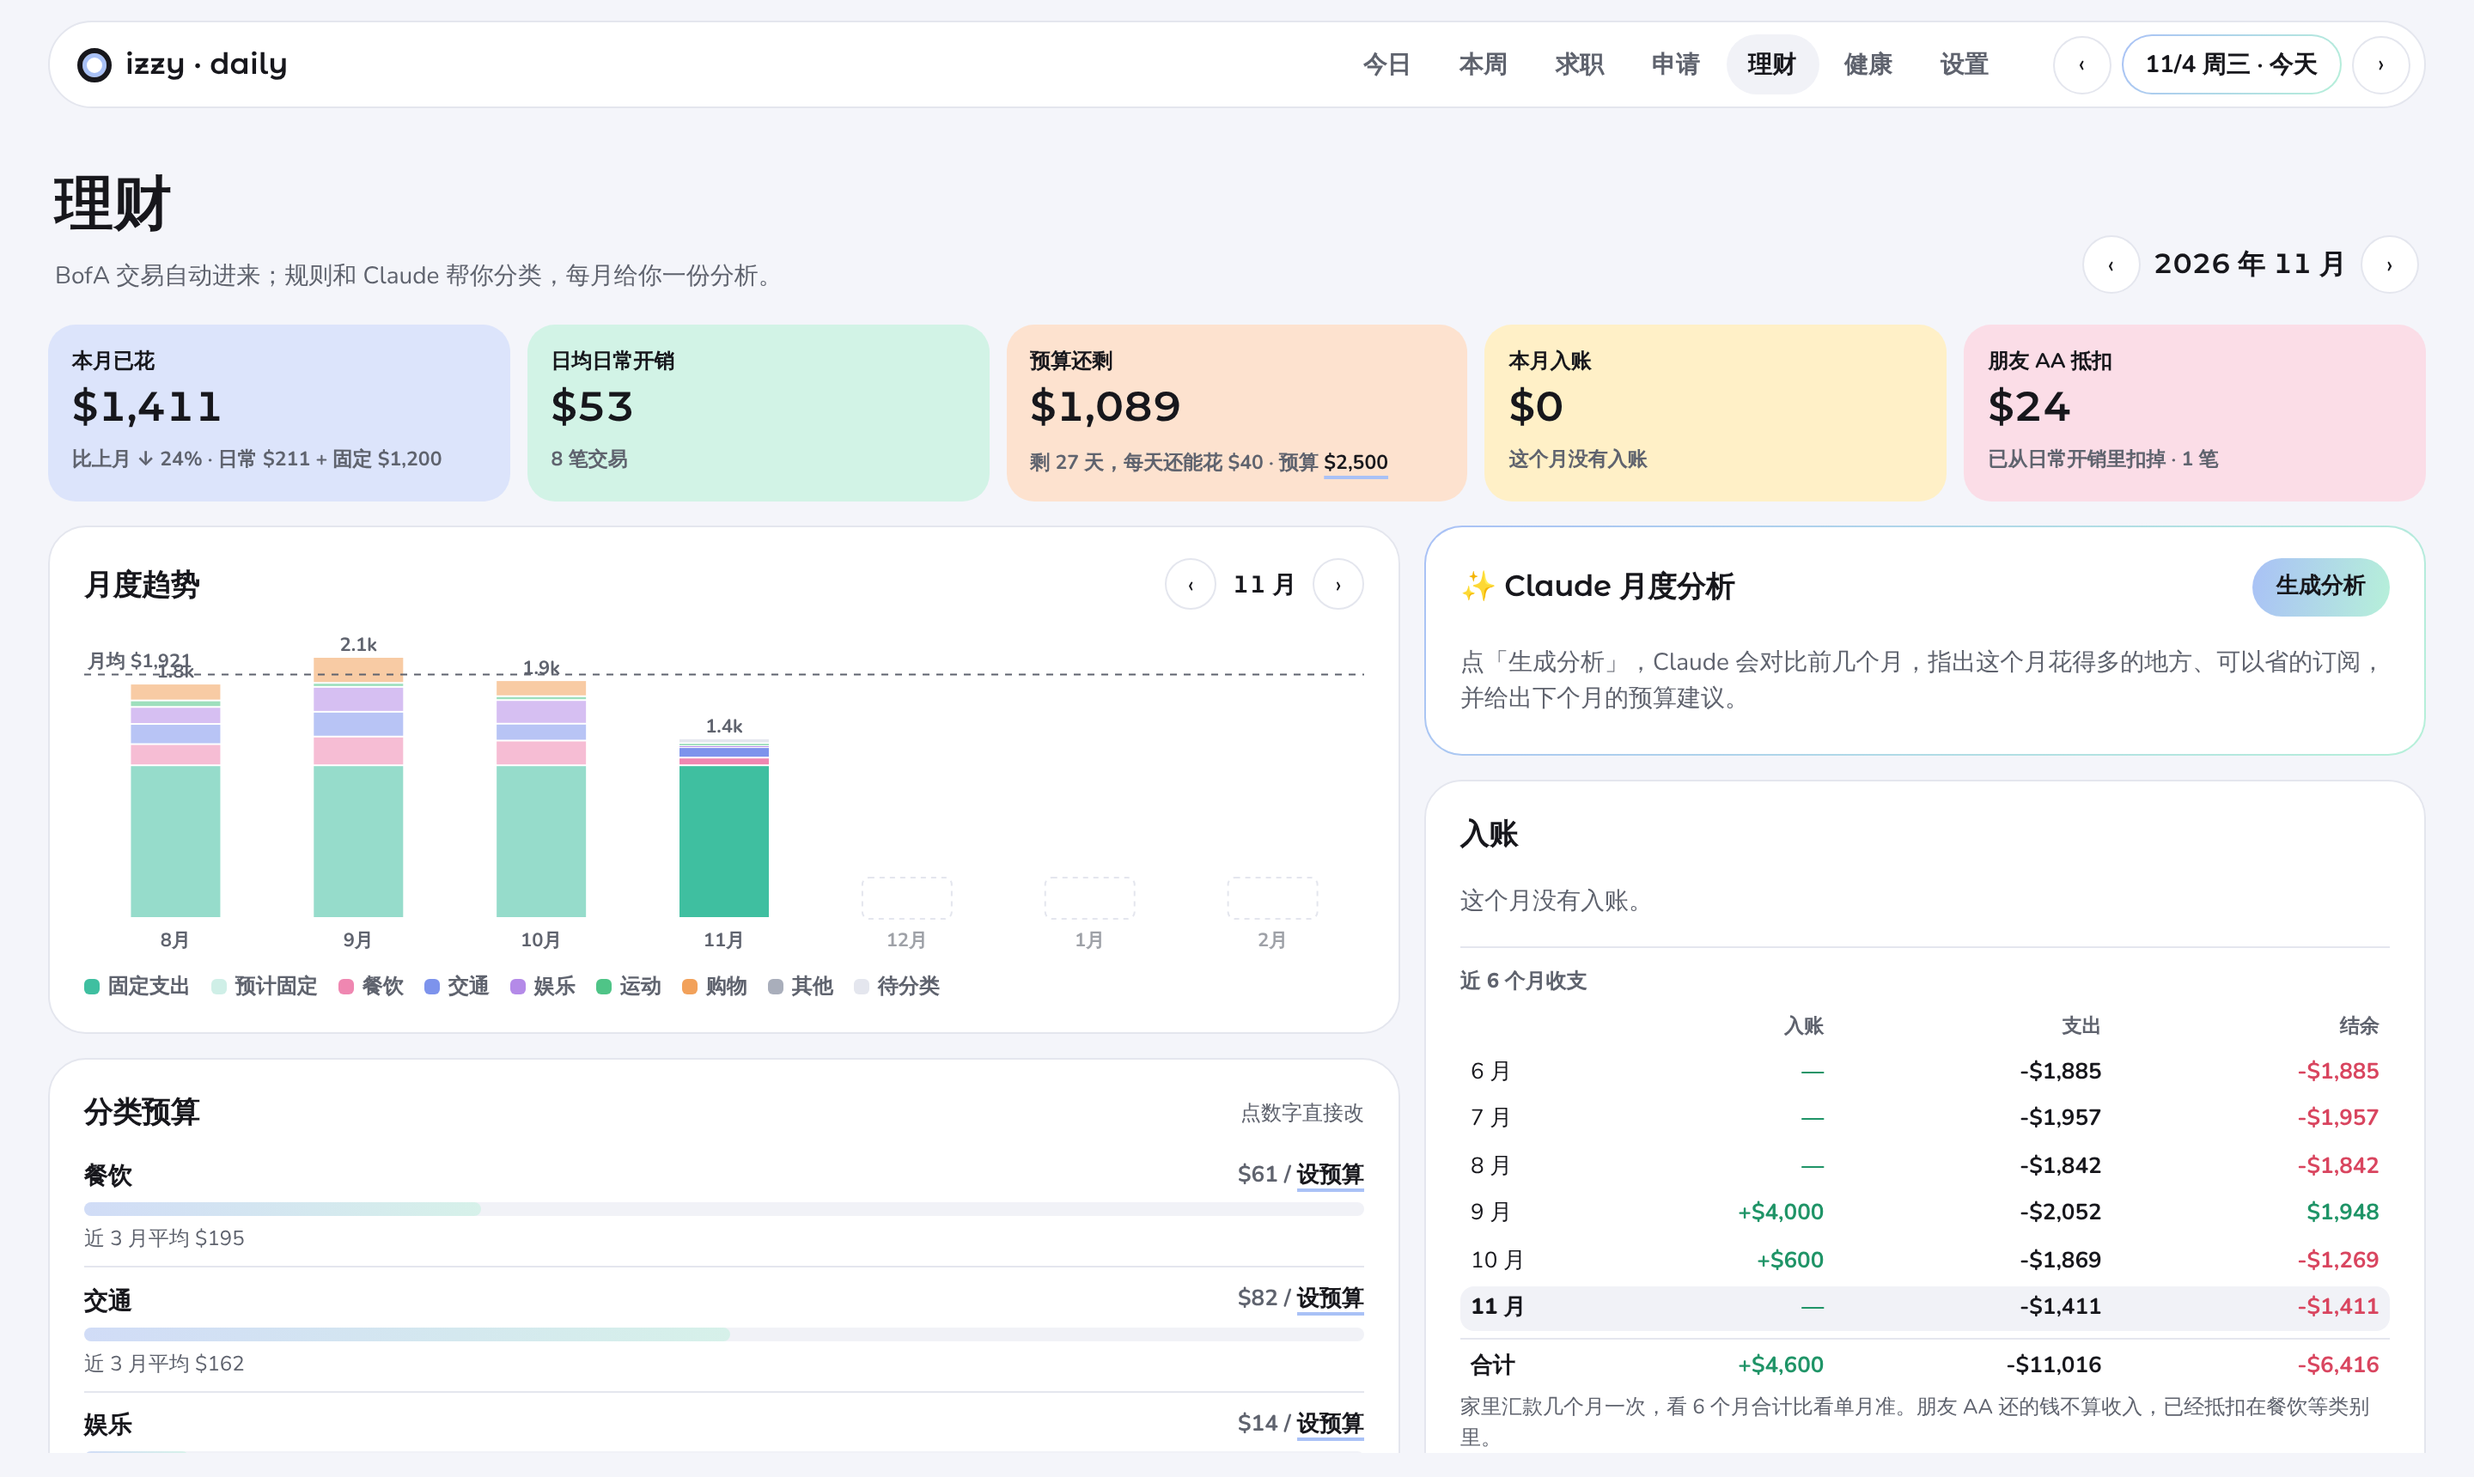
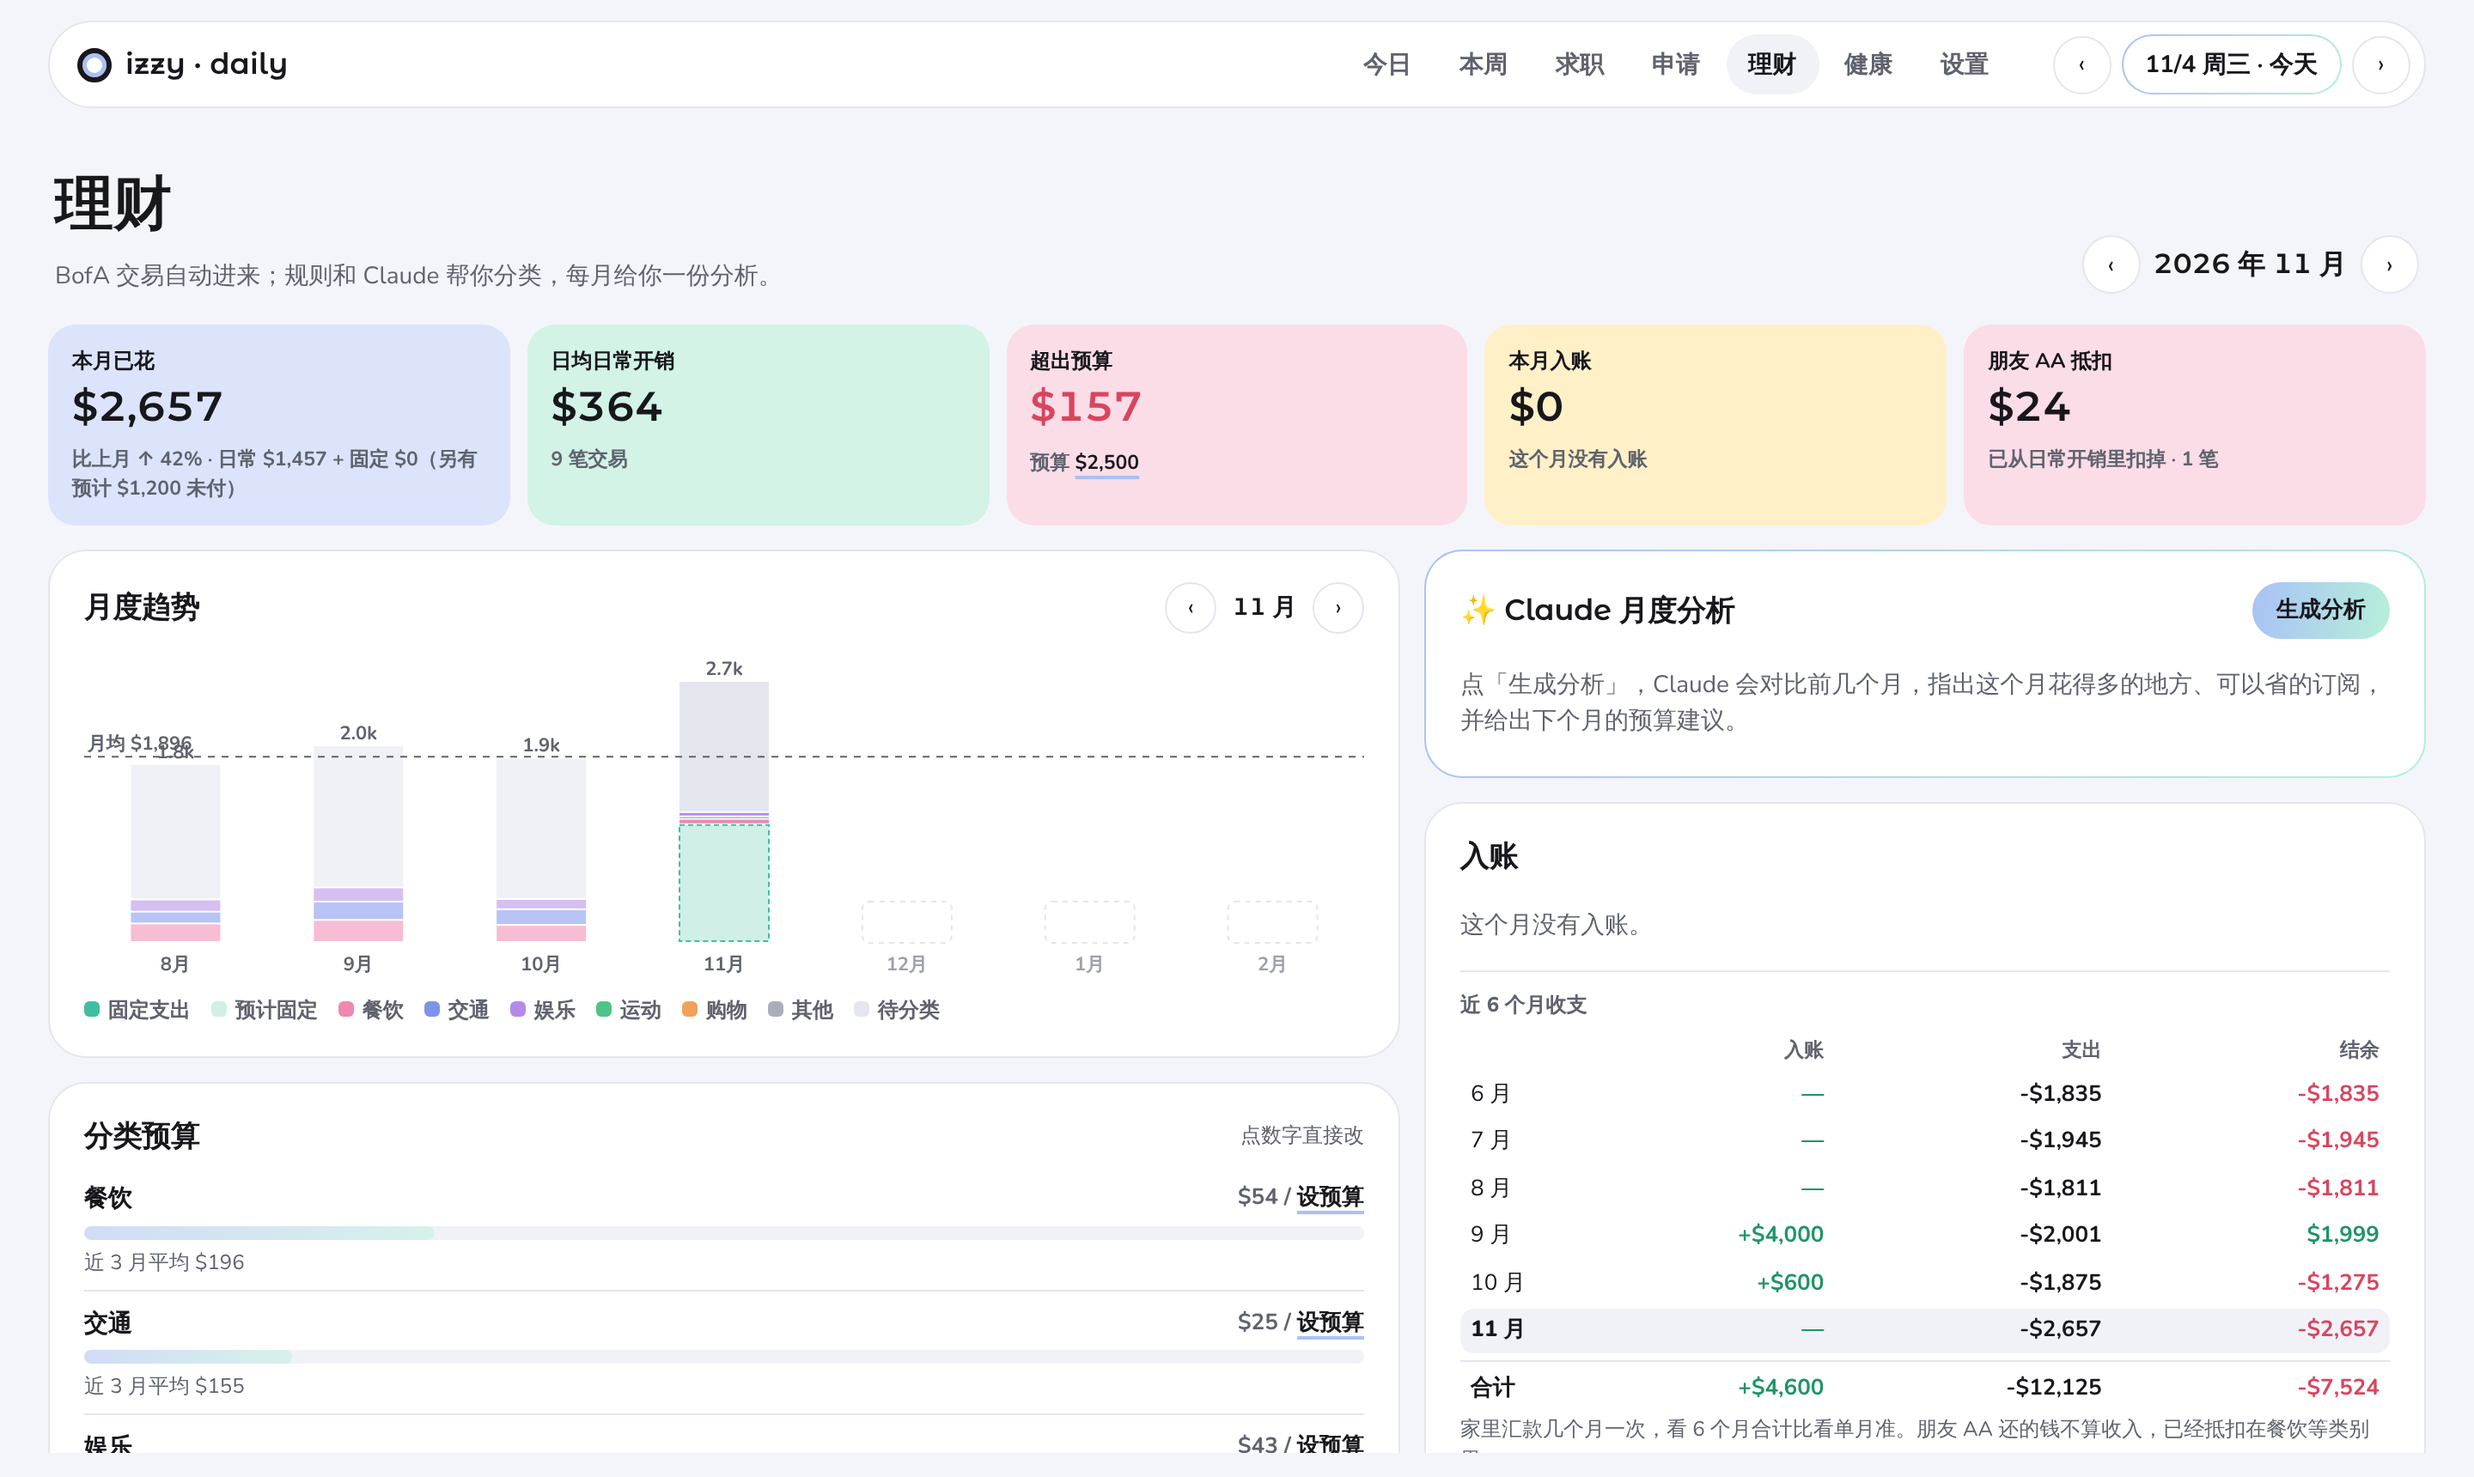
README: day grid editing, new spending categories; drop Week page
Claude-Session: https://claude.ai/code/session_01LdqtABcSLYV7nAgoBem4sL

diff --git a/README.md b/README.md
@@ -69,12 +69,11 @@ Supported action types:
 
 ## Everything else
 
-The hub feeds a dashboard with seven pages:
+The hub feeds a dashboard with six pages:
 
 | Page | What's there |
 |---|---|
-| **Today** | Now card with progress bar, timeline (Google Calendar + weekly template), to-dos ranked by urgency, daily check-ins |
-| **Week** | Habit grid, sleep, weekly review drafted by Claude |
+| **Today** | Now card with progress bar, an editable day grid (Google Calendar + weekly template), to-dos ranked by urgency, daily check-ins |
 | **Jobs** | Application pipeline synced with my job-hunting agent's board, response-odds score |
 | **Applications** | Grad school tracker and a copy-paste kit for job forms |
 | **Finance** | Spending, income and budgets (see below) |
@@ -83,7 +82,13 @@ The hub feeds a dashboard with seven pages:
 
 ![Finance page](docs/finance.png)
 
+### Editing the day like Google Calendar
+
+The timeline is a day grid. Click empty space (or drag) to create a block, click a block to rename it or change its time, drag it to move, drag its bottom edge to resize. Blocks snap to 15 minutes, overlapping blocks sit side by side, and every change can be undone. Template blocks save into that day only; events from Google Calendar can be opened or deleted.
+
 ### Finance logic
+
+- **Ten categories, three natures.** Housing, food, transport, home & utilities, health, personal & gifts, leisure, learning, banking fees and other. Each category is tagged rigid (hard to cut), flexible (where the money leaks) or future (pays off later), and the finance page shows the monthly split.
 
 - **Bank alerts in, no bank login.** Transactions come from Bank of America alert emails read through the Gmail connector. They are parsed with regex first and with Claude as a fallback. Gmail message IDs are used as document keys, so re-syncing never duplicates a transaction.
 - **Fixed costs count only when actually paid.** Rent and insurance are matched against real payments, not assumed every month.
